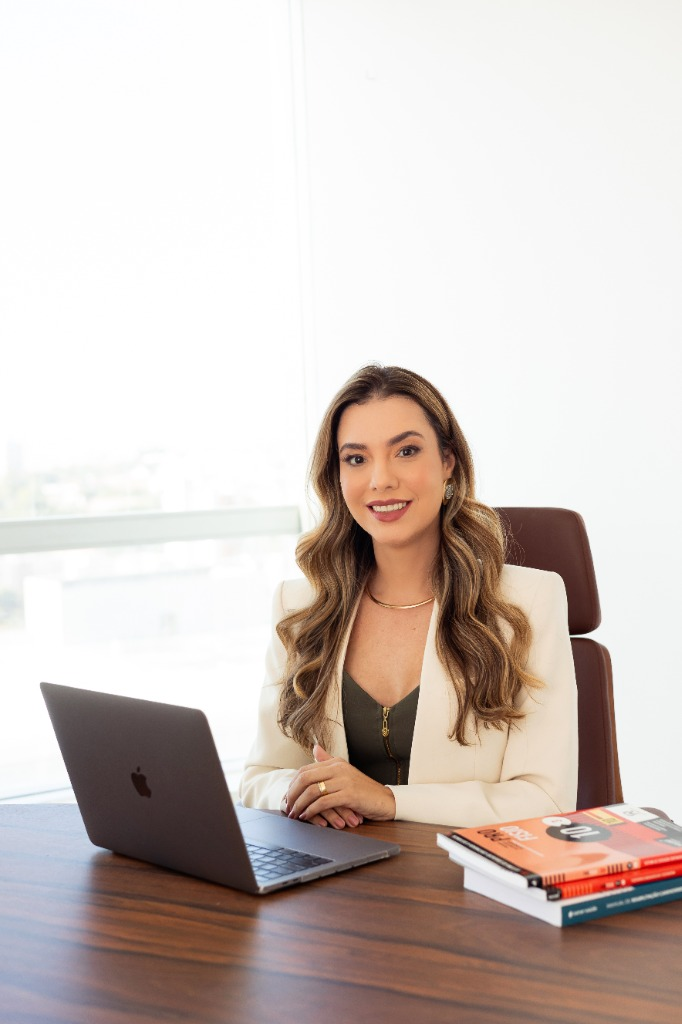
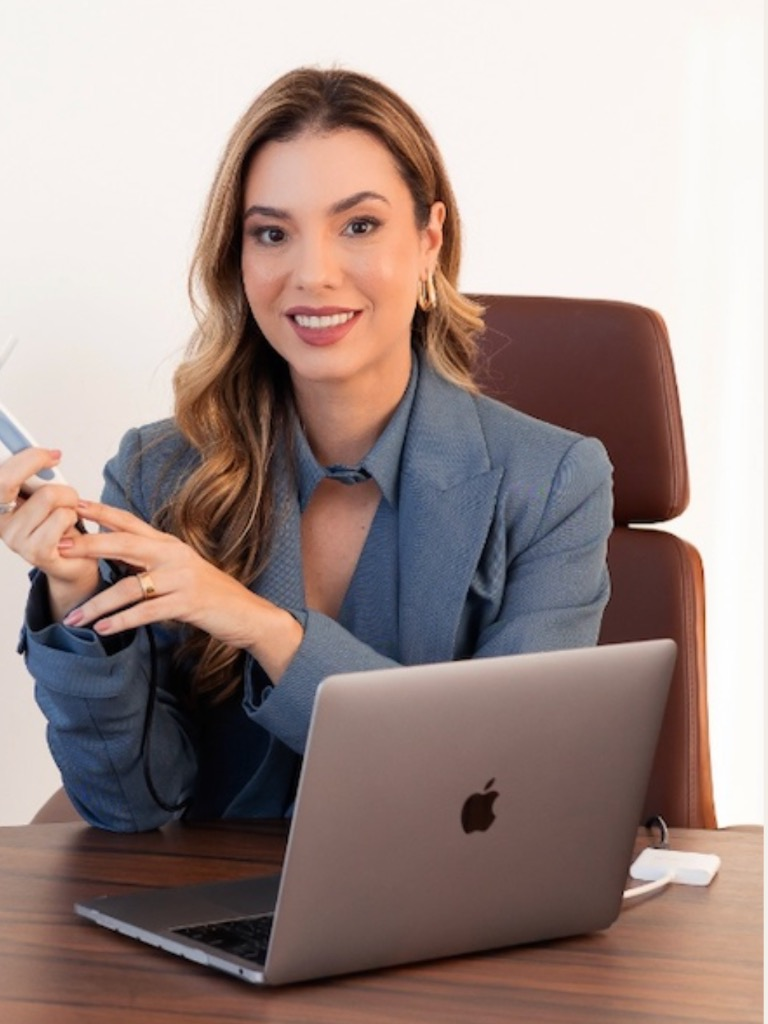
Fix: Remove stray hand from clinical photo

diff --git a/index.html b/index.html
@@ -595,7 +595,7 @@
 
         <div class="grid-2" style="align-items: center;">
             <div class="about-image">
-                <img src="./foto-clinica.png" alt="Dra. Ingrid Correia no Consultório">
+                <img src="./foto-clinica.jpg" alt="Dra. Ingrid Correia no Consultório">
             </div>
             <div>
                 <ul style="margin-bottom: 2rem;">
